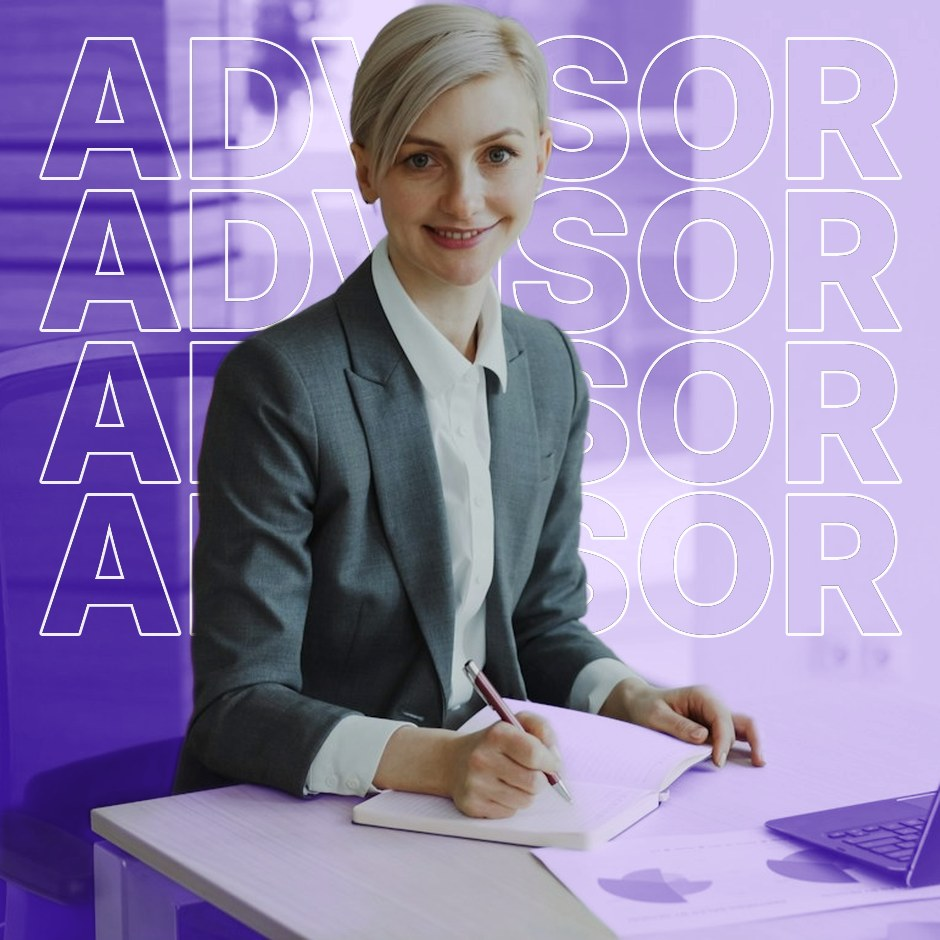
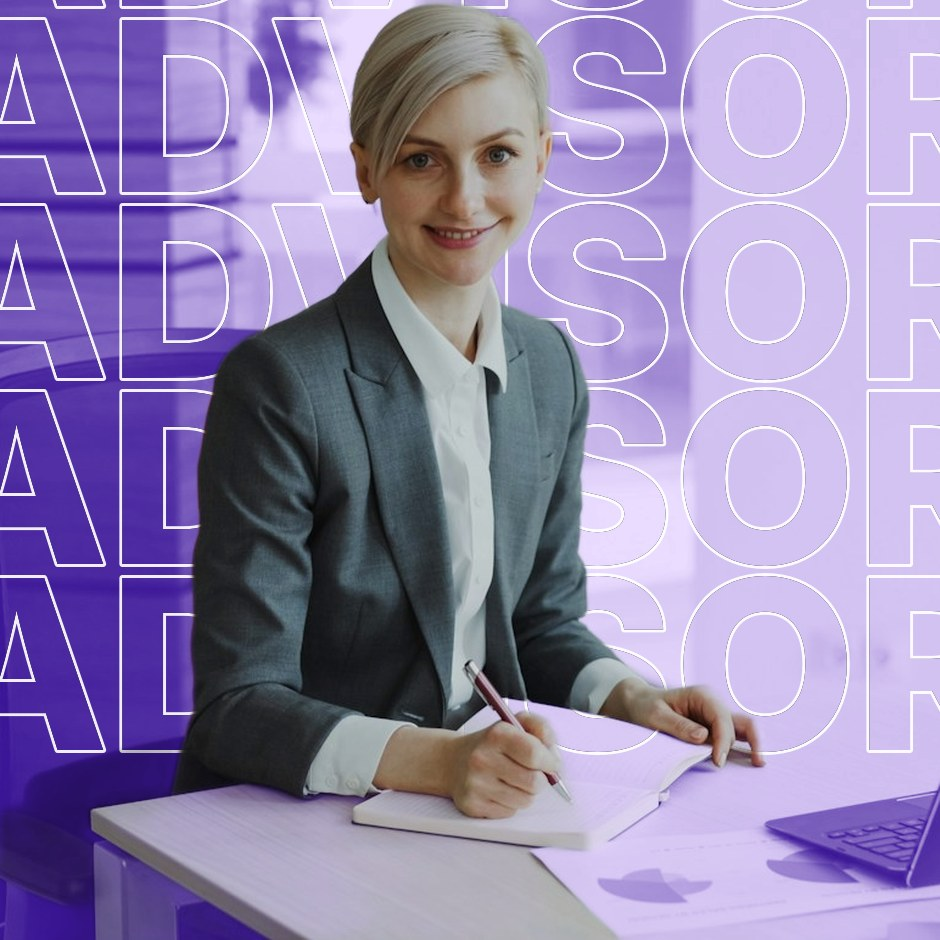
Wave File Without Fear: white flat paper, bigger ADVISOR type (#844)
* Add Wave File Without Fear tax-season landing page

Wave tax-season page rebuilt at 1:1 with a full-bleed blue hero: paper
creatures folded from CRA forms (T1 dragon, GST/HST hydra, T2125 cobra,
Notice of Assessment paper tiger) unfold into flat creased sheets in 12 fps
stop motion. Article cards use the same engine. Homepage tile, clip and favicon.

Claude-Session: https://claude.ai/code/session_016rpgua64Lx5cLk6vLaSVPx

* Wave File Without Fear: original hero body copy, no caption bar, pill or navy loops

Claude-Session: https://claude.ai/code/session_016rpgua64Lx5cLk6vLaSVPx

* Wave File Without Fear: origami lotus on pink replaces the features photo

A T2125 sheet folds itself into a paper lotus in stop motion, then the
Wave categorized-expenses cards settle on top with tighter spacing.

Claude-Session: https://claude.ai/code/session_016rpgua64Lx5cLk6vLaSVPx

* Wave File Without Fear: bigger hero creatures, two-line headline, tax checklist download, looping top-down lotus, taller cards

Claude-Session: https://claude.ai/code/session_016rpgua64Lx5cLk6vLaSVPx

* Wave File Without Fear: soft sway instead of stop-motion jitter, no orange line in the hero

Claude-Session: https://claude.ai/code/session_016rpgua64Lx5cLk6vLaSVPx

* Wave File Without Fear: one content width, every section aligned to the hero's left and right edges

Claude-Session: https://claude.ai/code/session_016rpgua64Lx5cLk6vLaSVPx
[…]

diff --git a/wave-file-without-fear/index.html b/wave-file-without-fear/index.html
@@ -965,6 +965,8 @@ Scene.prototype.draw = function (k, frame = 0) {
     if (V.dot(nrm, V.sub(E, P[0])) < 0) nrm = V.mul(nrm, -1);
     const lam = Math.max(0, V.dot(nrm, L));
     const shade = clamp((0.36 + 0.74 * lam) * lf, 0, 1.1);
+    // a sheet lying flat reads as white paper, not grey: lift its shading toward full brightness
+    const shadeF = shade + (1.02 - shade) * calm * 0.82;
     // expand slightly to hide hairline seams
     const cx = (s[0][0] + s[1][0] + s[2][0]) / 3, cy = (s[0][1] + s[1][1] + s[2][1]) / 3;
     const ex = s.map((q) => { const dx = q[0] - cx, dy = q[1] - cy, l = Math.hypot(dx, dy) || 1, e = Math.min(0.9, l * 0.5); return [q[0] + (dx / l) * e, q[1] + (dy / l) * e]; });
@@ -989,8 +991,8 @@ Scene.prototype.draw = function (k, frame = 0) {
         g.setTransform(1, 0, 0, 1, 0, 0);
       }
     }
-    if (shade < 1) { g.fillStyle = `rgba(28,24,40,${(1 - shade) * 0.92})`; g.fill(); }
-    else { g.fillStyle = `rgba(255,252,240,${(shade - 1) * 1.4})`; g.fill(); }
+    if (shadeF < 1) { g.fillStyle = `rgba(28,24,40,${(1 - shadeF) * 0.92})`; g.fill(); }
+    else { g.fillStyle = `rgba(255,252,240,${(shadeF - 1) * 1.4})`; g.fill(); }
     g.restore();
   }
   // crease lines once flat-ish
@@ -1119,7 +1121,7 @@ if (reduce && !CLIP) rb.seek(0);
   pick(0);
   // lotus: one long, eased breath: opens flat, blooms, rests while turning slowly, then opens again
   const cam = () => mobile() ? { cx: 0.64, cy: 0.86, fov: 1.15 } : { cx: 0.74, cy: 0.83, fov: 1.32 };
-  const sc = new Origami.Scene(cv, Object.assign({ creature: 'lotus', form: 'T2125', shadow: null, yaw: -0.3, flatYaw: -0.3, pitch: 1.0, tgtY: 0.12, light: [-0.75, 0.6, 0.7], fps: 60, sway: 0.5 }, cam()));
+  const sc = new Origami.Scene(cv, Object.assign({ creature: 'lotus', form: 'T2125', shadow: null, yaw: -0.3, flatYaw: -0.3, pitch: 1.0, tgtY: 0.12, light: [-0.55, 0.9, 0.6], fps: 60, sway: 0.5 }, cam()));
   const F = 1.4, B = 4.2, H = 7, U = 4.2, LOOP = F + B + H + U, ease = (x) => 0.5 - 0.5 * Math.cos(Math.PI * Math.max(0, Math.min(1, x)));
   const kAt = (t) => { t %= LOOP; if (t < F) return 1; if (t < F + B) return 1 - ease((t - F) / B); if (t < F + B + H) return 0; return ease((t - F - B - H) / U); };
   const draw = (t) => { sc.o.yaw = sc.o.flatYaw = -0.3 + t * 0.045; sc.draw(kAt(t), Math.floor(t * 60)); };
